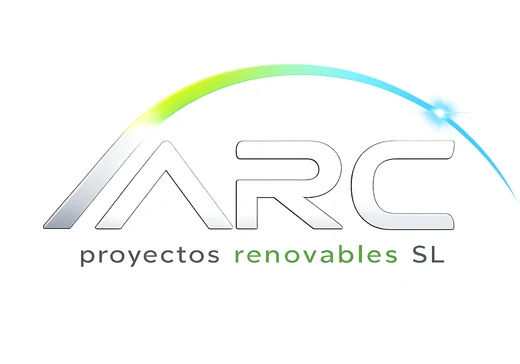
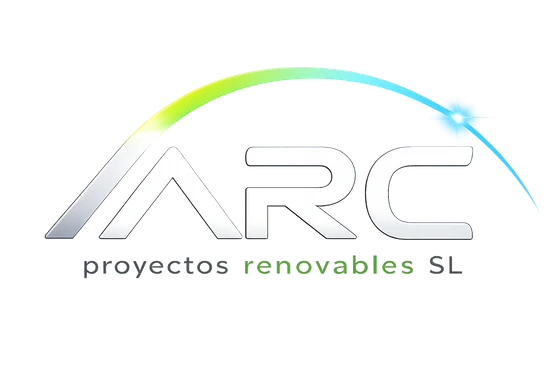
Arregla el logotipo de ARC, que se lavaba sobre el fondo blanco
Dos fallos, uno encima del otro. El PNG original ya venía con
transparencia correcta, pero al convertirlo lo pegué sobre blanco y le
incrusté un rectángulo opaco. Y como las letras de ARC son blancas con
filete fino, ese rectángulo sobre la sección blanca dejaba el logotipo
prácticamente invisible.

Se reexporta respetando el canal alfa original y se coloca sobre un panel
de --paper-2 con filete, que es lo justo para que las formas blancas
tengan borde sin que el bloque gris cante. Sin filtros de ningún tipo: es
marca ajena y se respeta como la entregan.

diff --git a/src/styles/home.css b/src/styles/home.css
@@ -908,9 +908,16 @@ details p{padding:0 3rem 1.5rem 0;font-size:.95rem;line-height:1.7;font-weight:3
   margin-top:clamp(2.2rem,4vw,3.2rem);
 }
 
-/* El logotipo es del cliente y llega sobre blanco: se deja tal cual, sin
-   filtros ni recortes de marca ajena. */
-.caso-ficha img{width:clamp(170px,19vw,224px)}
+/* El logotipo de ARC tiene las letras blancas con filete fino: sobre el
+   blanco de la seccion se lavaba y no se leia. Va sobre un panel de
+   --paper-2, lo justo para que las formas blancas tengan borde sin que el
+   bloque gris cante. Sin filtros: es marca ajena y se respeta. */
+.caso-logo{
+  display:inline-flex;align-items:center;justify-content:center;
+  background:var(--paper-2);border:1px solid var(--rule);
+  padding:clamp(1.1rem,2.2vw,1.6rem) clamp(1.4rem,2.8vw,2.1rem);
+}
+.caso-logo img{width:clamp(160px,18vw,208px)}
 .caso-sector{
   margin-top:1.1rem;font-size:.9rem;font-weight:300;
   color:var(--muted);max-width:34ch;
